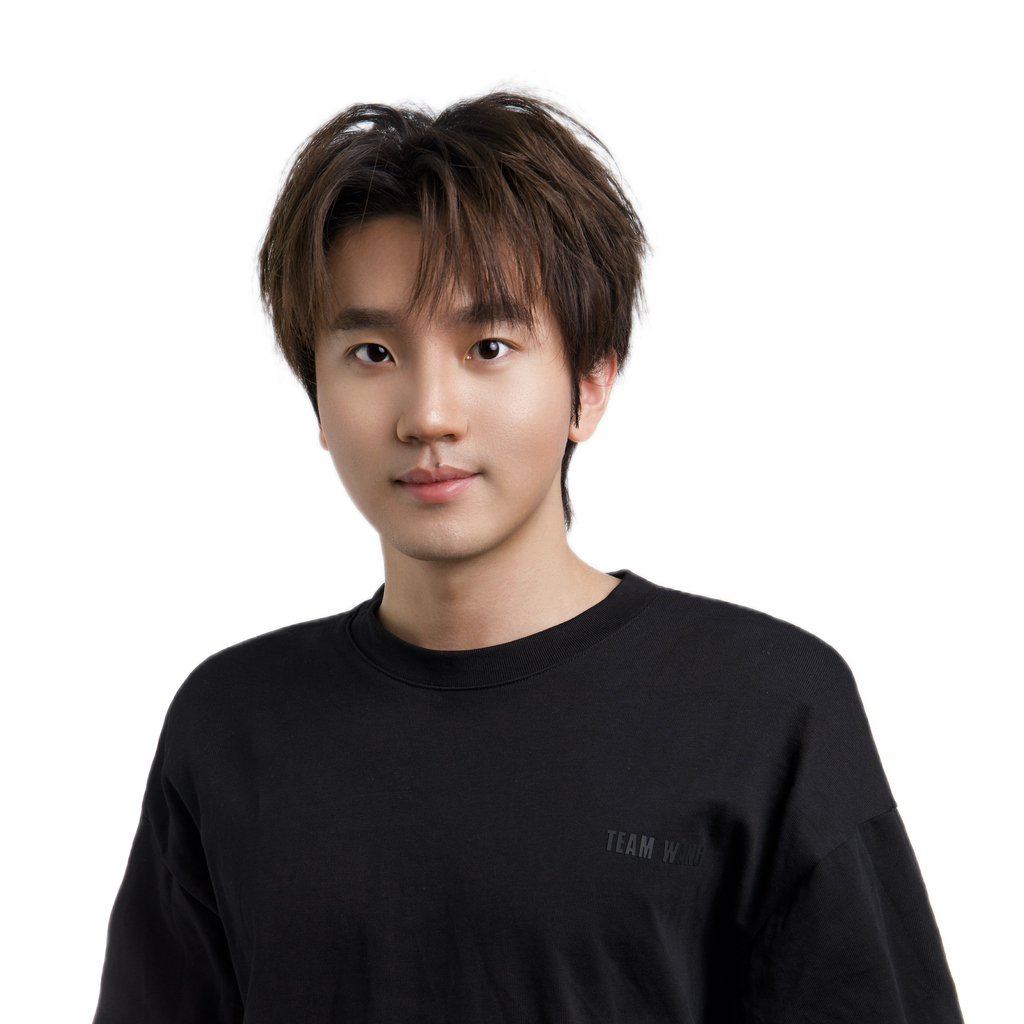
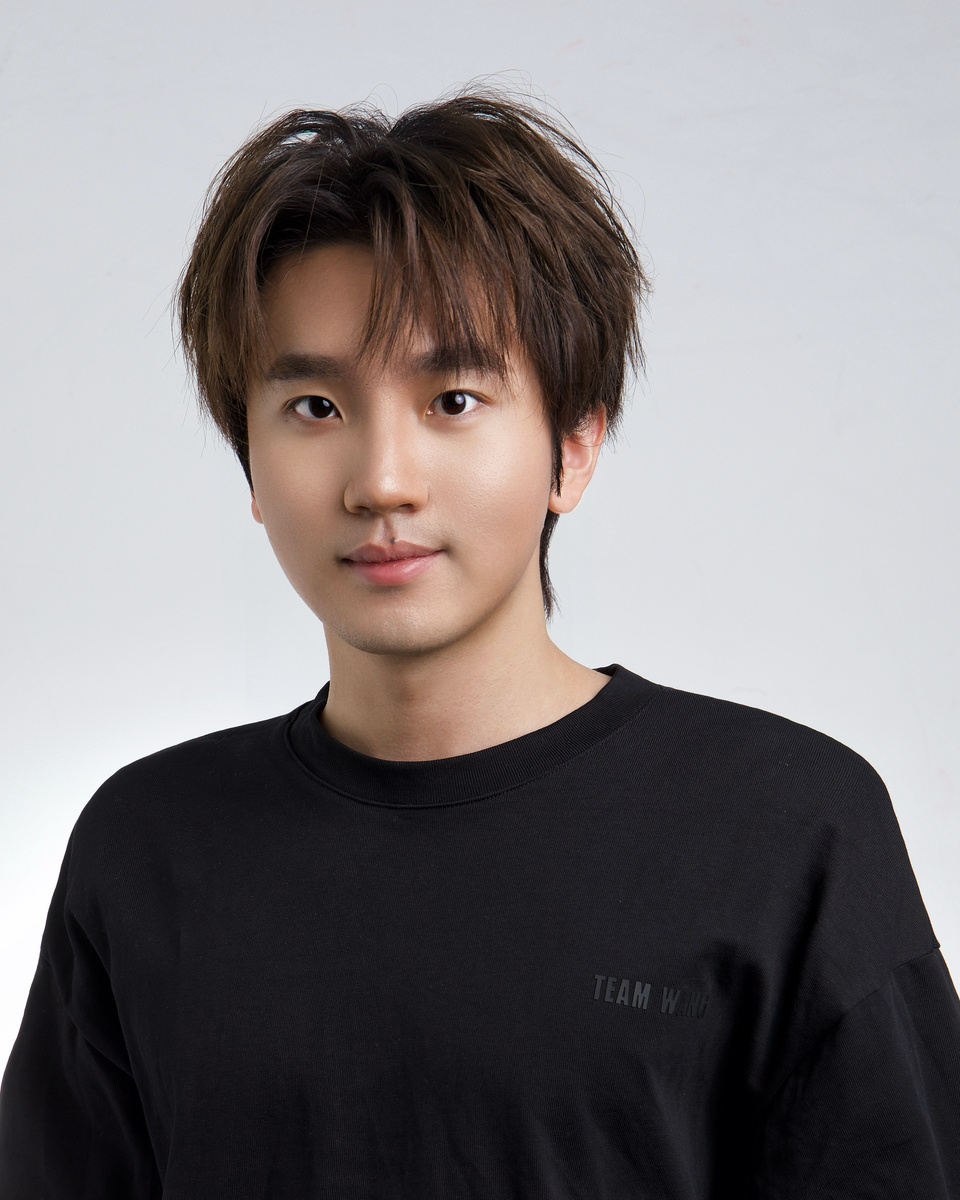
Use updated portrait with a natural 4:5 crop

diff --git a/index.html b/index.html
@@ -25,7 +25,7 @@
           <a href="mailto:jshuag@connect.ust.hk">Email <span aria-hidden="true">↗</span></a>
         </div>
       </div>
-      <div class="portrait" style="aspect-ratio:1/1"><img src="assets/jiazhishu.jpg?v=20261019" alt="Portrait of Jiazhi Shu" width="1024" height="1024"></div>
+      <div class="portrait" style="aspect-ratio:4/5"><img src="assets/jiazhishu.jpg?v=20261019-portrait2" alt="Portrait of Jiazhi Shu" width="960" height="1200"></div>
     </section>
     <section class="research" id="preprints" aria-labelledby="preprints-title">
       <div class="section-heading"><h2 id="preprints-title">Preprints</h2></div>
